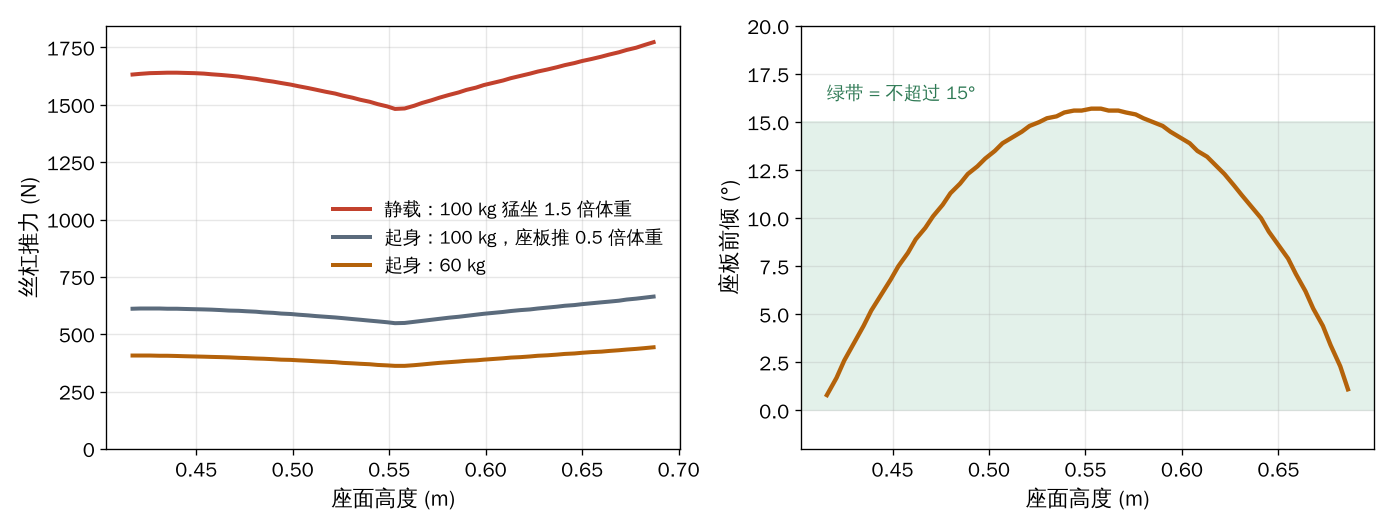
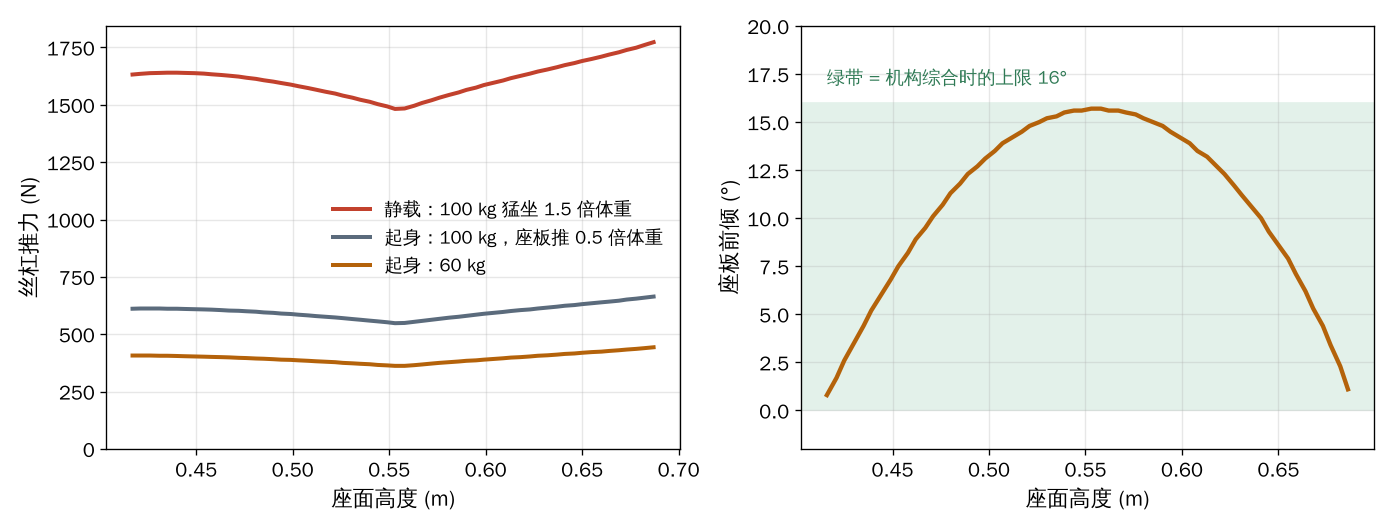
Same-footing bed baseline; deck comparison/verify/conclusion use it; figure state labels
Claude-Session: https://claude.ai/code/session_0189MFebuQQaozftdhaMXEmZ

Changed region(s): [[0.556, 0.1212, 0.9885, 0.2424]]

diff --git a/presentation/slides/whynot.html b/presentation/slides/whynot.html
@@ -1,26 +1,26 @@
-<section id="whynot" data-transition="fade" style="background:#FCFBF8;color:#18202A;font-family:'Noto Sans SC', Arial, sans-serif;padding:128px 128px 160px;display:flex;flex-direction:column;gap:48px">
+<section id="whynot" data-transition="fade" style="background:#FCFBF8;color:#18202A;font-family:'Noto Sans SC', Arial, sans-serif;padding:128px 128px 160px;display:flex;flex-direction:column;gap:40px">
 <div style="display:flex;flex-direction:column;gap:16px">
 <p style="font-size:26px;color:#9A5408;letter-spacing:2px">2 · 方案比较</p>
-<h2 style="font-family:'Noto Serif SC', Georgia, serif;font-size:60px;font-weight:700;line-height:1.2">四种起身方式比较：起身时的座高决定省多少力</h2>
+<h2 style="font-family:'Noto Serif SC', Georgia, serif;font-size:56px;font-weight:700;line-height:1.2">比低床省约 32%；比抬高床只多省 5–10%，好处在别处</h2>
 </div>
-<div style="display:grid;grid-template-columns:1000px 1fr;gap:64px;align-items:center">
-<div style="display:flex;flex-direction:column;gap:22px">
-<p style="font-size:26px;color:#66707C">起身最吃力那一刻的 effort（越低越轻松；手上最多出 25% 体重的假设）</p>
-<div style="display:grid;grid-template-columns:330px 1fr 90px;gap:20px;align-items:center">
-<p style="font-size:28px;color:#3F4A57">低床 0.42 m，撑床垫</p><div style="height:40px;width:520px;background:#C3C9D1;border-radius:6px"></div><p style="font-size:28px;font-weight:700">0.39</p>
-<p style="font-size:28px;color:#3F4A57">动态扶手（组里最初的方案）</p><div style="height:40px;width:520px;background:#C3C9D1;border-radius:6px"></div><p style="font-size:28px;font-weight:700">0.39</p>
-<p style="font-size:28px;color:#3F4A57">抬高床 0.58 m + 扶手</p><div style="height:40px;width:389px;background:#9AA3AD;border-radius:6px"></div><p style="font-size:28px;font-weight:700">0.29</p>
-<p style="font-size:28px;color:#18202A"><b>起身台 0.66 m</b></p><div style="height:40px;width:311px;background:#B4620A;border-radius:6px"></div><p style="font-size:28px;font-weight:700">0.23</p>
-<p style="font-size:28px;color:#3F4A57">起身台，脚下空间按床算</p><div style="height:40px;width:326px;background:#D9A15C;border-radius:6px"></div><p style="font-size:28px;font-weight:700">0.24</p>
+<div style="display:grid;grid-template-columns:1060px 1fr;gap:56px;align-items:start">
+<div style="display:flex;flex-direction:column;gap:18px">
+<p style="font-size:26px;color:#66707C">起身最吃力那一刻的 effort，中位数（越低越轻松；同一模型、同一批 72 位用户）</p>
+<div style="display:grid;grid-template-columns:360px 1fr;gap:18px 20px;align-items:center">
+<p style="font-size:28px;color:#3F4A57">低床 0.42 m + L 扶手</p><div style="display:flex;align-items:center;gap:16px"><div style="height:40px;width:546px;background:#C3C9D1;border-radius:0 6px 6px 0"></div><p style="font-size:28px;font-weight:700">0.41</p><p style="font-size:22px;color:#66707C"></p></div>
+<p style="font-size:28px;color:#3F4A57">抬高床 0.58 m + L 扶手</p><div style="display:flex;align-items:center;gap:16px"><div style="height:40px;width:413px;background:#9AA3AD;border-radius:0 6px 6px 0"></div><p style="font-size:28px;font-weight:700">0.31</p><p style="font-size:22px;color:#66707C"></p></div>
+<p style="font-size:28px;color:#3F4A57">抬高床 0.58 m + 最佳扶手</p><div style="display:flex;align-items:center;gap:16px"><div style="height:40px;width:396px;background:#7D8792;border-radius:0 6px 6px 0"></div><p style="font-size:28px;font-weight:700">0.30</p><p style="font-size:22px;color:#66707C"></p></div>
+<p style="font-size:28px;color:#18202A"><b>起身台：坐板放手那一刻</b></p><div style="display:flex;align-items:center;gap:16px"><div style="height:40px;width:383px;background:#B4620A;border-radius:0 6px 6px 0"></div><p style="font-size:28px;font-weight:700">0.29</p><p style="font-size:22px;color:#66707C"></p></div>
+</div>
+<p style="font-size:24px;line-height:1.5;color:#3F4A57">另有 9 位用户（1.50 m、臀部厚）坐在 0.58 m 的床上脚踩不实，没法比；起身台平时 0.42 m，81 人都踩得实</p>
+</div>
+<div style="display:flex;flex-direction:column;gap:26px">
+<p style="font-size:30px;line-height:1.45"><b>比低床：</b>每个人都省，中位数省 32%</p>
+<p style="font-size:30px;line-height:1.45"><b>比抬高床：</b>只省 5–10%；72 人里 19 人反而略费力</p>
+<p style="font-size:28px;line-height:1.5;color:#3F4A57"><b>原因：</b>多数人在座板前倾最大（约 15°）时就离开坐垫，那时髋只比坐在 0.58 m 床上高约 4 cm；导轨上段没用来托人</p>
+<p style="font-size:28px;line-height:1.5;color:#9A5408"><b>所以它的价值是：</b>平时坐得低、脚踩得实；起身全程有托、不往前滑、坐回接得住（第 8 页）</p>
 </div>
 </div>
-<div style="display:flex;flex-direction:column;gap:28px">
-<p style="font-size:34px;line-height:1.45">坐着要低，脚才踩得实；起身要高，才省力。床只有一个高度，居家建议上限约 0.58 m。</p>
-<p style="font-size:34px;line-height:1.45">起身台把两个高度分开：平时和床齐平，<b>只在起身那一刻</b>升到 0.66 m</p>
-<p style="font-size:34px;line-height:1.45;color:#9A5408"><b>比抬高床再省 13–20%</b><br>比低床省 26–40%</p>
-<p style="font-size:28px;line-height:1.5;color:#3F4A57">只升到 0.60 m 就和抬高床差不多。座板还要跟着大腿走，否则人会往前滑（第 8 页）</p>
-</div>
-</div>
-<p style="position:absolute;left:128px;bottom:64px;width:1664px;font-size:24px;color:#66707C">effort = 最吃力的关节用掉自身最大力量的比例。2D 准静态坐→站模型，四种手臂力量假设下排序一致；范围来自手臂和脚下空间的不同假设</p>
-<aside>接下来比较几种起身方式。我们用一个二维、准静态的起身模型，算离座那一刻最吃力的关节用掉了自己最大力量的几成，叫 effort，越低越轻松。从低床撑着床垫站起来是 0.39，组里最初想的动态扶手也差不多；把床垫高到 0.58 m 再加扶手是 0.29，这是最便宜、效果也最好的现有做法；起身台升到 0.66 m 是 0.23。四种手臂力量假设下排序都一样，比抬高床再省 13 到 20%。可以看出，真正决定省力的是起身那一刻座面有多高。但床只有一个高度：坐着时要低，脚才踩得实，所以居家建议不超过约 0.58 m。起身台的作用就是把这两个高度分开：平时和床齐平，只在起身那一刻升到床达不到的高度。如果只升到 0.60 m，就和抬高床差不多，所以多出来的这段高度正是起身台的价值。</aside>
+<p style="position:absolute;left:128px;bottom:64px;width:1664px;font-size:24px;color:#66707C">effort = 最吃力的关节用掉自身最大力量的比例（2D 准静态模型，手上最多出半个体重）。抬高床按最有利的坐姿（臀部离床沿 0–10 cm）和 35 个扶手位置里最好的算。旧版此页的 13–20% 来自竖直升到 0.66 m 的旧模型，已作废</p>
+<aside>接下来比较几种起身方式。我们用同一个二维、准静态的起身模型、同一副 L 形扶手和同一批用户，算最吃力那一刻最吃力的关节用掉了自身最大力量的几成，叫 effort，越低越轻松。从 0.42 米的低床起身，中位数是 0.41；把床垫高到 0.58 米，降到 0.31，扶手放到最有利的位置是 0.30；起身台在座板放手那一刻是 0.29。所以和低床比，起身台每个人都省，中位数省 32%；但和抬高床比只多省 5% 到 10%，有 19 个人反而略费力。原因是多数人在座板前倾最大、大约 15 度时就离开了坐垫，那时髋部只比坐在 0.58 米的床上高约 4 厘米。我们之前的版本写比抬高床省 13 到 20%，那是竖直升降旧模型的数字，这次按同一口径重算后不成立，我们改掉了。起身台相对抬高床的好处主要在别处：平时和床一样低，脚踩得实，0.58 米的床有 9 位个子矮的用户脚踩不实；起身全程有托，不往前滑，坐回去也接得住。</aside>
 </section>

diff --git a/presentation/slides/concept.html b/presentation/slides/concept.html
@@ -4,11 +4,11 @@
 <h2 style="font-family:'Noto Serif SC', Georgia, serif;font-size:60px;font-weight:700;line-height:1.2">床边起身台：一次完整的使用</h2>
 </div>
 <div style="display:grid;grid-template-columns:1fr 1fr 1fr 1fr 1fr;gap:20px">
-<div style="display:flex;flex-direction:column;gap:16px"><img src="/_blob/d6f8e85453768b055b5749718ff37e1e" alt="坐在床沿，挪上和床齐平的座板" style="width:316px;height:266px;object-fit:contain;background:#FBFAF6;border-radius:20px;border:1px solid #E2DED5"><p style="font-size:28px;line-height:1.45"><b>1</b> 坐在床沿，挪上和床齐平的座板</p></div>
-<div style="display:flex;flex-direction:column;gap:16px"><img src="/_blob/075a16a503d5f0ad6b0c557895de017d" alt="双手握住身前的横杆" style="width:316px;height:266px;object-fit:contain;background:#FBFAF6;border-radius:20px;border:1px solid #E2DED5"><p style="font-size:28px;line-height:1.45"><b>2</b> 双手握住身前横杆，想坐多久都行</p></div>
+<div style="display:flex;flex-direction:column;gap:16px"><img src="/_blob/f04ae053c2630cce3f86a9dde65cf616" alt="坐在床沿，挪上和床齐平的座板" style="width:316px;height:266px;object-fit:contain;background:#FBFAF6;border-radius:20px;border:1px solid #E2DED5"><p style="font-size:28px;line-height:1.45"><b>1</b> 坐在床沿，挪上和床齐平的座板</p></div>
+<div style="display:flex;flex-direction:column;gap:16px"><img src="/_blob/ce4c008948e32731a7d7e0db3db5db3a" alt="双手握住身前的横杆" style="width:316px;height:266px;object-fit:contain;background:#FBFAF6;border-radius:20px;border:1px solid #E2DED5"><p style="font-size:28px;line-height:1.45"><b>2</b> 双手握住身前横杆，想坐多久都行</p></div>
 <div style="display:flex;flex-direction:column;gap:16px"><img src="/_blob/26c9f0689cadff60d7726f9b781f9a7e" alt="握紧开关，座板跟着大腿走" style="width:316px;height:266px;object-fit:contain;background:#FBFAF6;border-radius:20px;border:1px solid #E2DED5"><p style="font-size:28px;line-height:1.45"><b>3</b> 握紧“起”开关：座板跟着大腿前移、上升、前倾</p></div>
 <div style="display:flex;flex-direction:column;gap:16px"><img src="/_blob/b9733f00decff3a5538c2b1895acd4e8" alt="坐垫托住臀部和大腿近端" style="width:316px;height:266px;object-fit:contain;background:#FBFAF6;border-radius:20px;border:1px solid #E2DED5"><p style="font-size:28px;line-height:1.45"><b>4</b> 人自己也发力，坐垫托住臀部和大腿近端</p></div>
-<div style="display:flex;flex-direction:column;gap:16px"><img src="/_blob/0f5dea0a2999377049822a2f3e8b0574" alt="站稳，座板停住" style="width:316px;height:266px;object-fit:contain;background:#FBFAF6;border-radius:20px;border:1px solid #E2DED5"><p style="font-size:28px;line-height:1.45"><b>5</b> 站稳；座板停在放手时的位置，坐回也接得住</p></div>
+<div style="display:flex;flex-direction:column;gap:16px"><img src="/_blob/8e5bc91f20c237c39537fad613267326" alt="站稳，座板停住" style="width:316px;height:266px;object-fit:contain;background:#FBFAF6;border-radius:20px;border:1px solid #E2DED5"><p style="font-size:28px;line-height:1.45"><b>5</b> 站稳；座板停在放手时的位置，坐回也接得住</p></div>
 </div>
 <p style="font-size:30px;line-height:1.5;color:#3F4A57">床不改造。台架靠在床的长边、和床固定；机构全部装在床头一侧的封闭箱里，床尾一侧敞开，回床时腿能转过去。L 形扶手固定在底座上，横杆在人正前方。</p>
 <p style="position:absolute;left:128px;bottom:64px;width:1664px;font-size:24px;color:#66707C">示意图由二维模型画出（1.60 m、60 kg），不是 CAD；红色条是坐垫与身体的接触区</p>

diff --git a/presentation/slides/conclusion.html b/presentation/slides/conclusion.html
@@ -1,12 +1,12 @@
 <section id="conclusion" data-transition="fade" style="background:#18202A;color:#F2EFE8;font-family:'Noto Sans SC', Arial, sans-serif;padding:128px;display:flex;flex-direction:column;gap:48px">
 <div style="display:flex;flex-direction:column;gap:16px">
 <p style="font-size:26px;color:#E3A24A;letter-spacing:2px">5 · 结论</p>
-<h2 style="font-family:'Noto Serif SC', Georgia, serif;font-size:64px;font-weight:700;line-height:1.2;color:#F2EFE8">平时和床一样低，起身时跟着人升得比床高，随时可停</h2>
+<h2 style="font-family:'Noto Serif SC', Georgia, serif;font-size:64px;font-weight:700;line-height:1.2;color:#F2EFE8">平时和床一样低，起身时跟着大腿托一程，随时可停</h2>
 </div>
 <div style="display:grid;grid-template-columns:1fr 1fr 1fr;gap:32px">
-<div style="background:#232E3B;border-radius:20px;padding:40px;display:flex;flex-direction:column;gap:16px"><h3 style="font-size:34px;font-weight:700;color:#E3A24A">省力、不滑</h3><p style="font-size:30px;line-height:1.5;color:#E4E0D6">升到床达不到的高度，比抬高床再省 13–20%；座板跟着大腿走，81 人都不往前滑、坐回接得住</p></div>
+<div style="background:#232E3B;border-radius:20px;padding:40px;display:flex;flex-direction:column;gap:16px"><h3 style="font-size:34px;font-weight:700;color:#E3A24A">省力、不滑</h3><p style="font-size:30px;line-height:1.5;color:#E4E0D6">比低床省约 32%；比抬高床只多省 5–10%，但平时坐得低、脚踩得实；81 人都不往前滑、坐回接得住</p></div>
 <div style="background:#232E3B;border-radius:20px;padding:40px;display:flex;flex-direction:column;gap:16px"><h3 style="font-size:34px;font-weight:700;color:#E3A24A">做得出来</h3><p style="font-size:30px;line-height:1.5;color:#E4E0D6">一个电机：斜导轨 + 倾角连杆；机构封闭在床头一侧，床尾敞开；台架和床固定</p></div>
 <div style="background:#232E3B;border-radius:20px;padding:40px;display:flex;flex-direction:column;gap:16px"><h3 style="font-size:34px;font-weight:700;color:#E3A24A">安全</h3><p style="font-size:30px;line-height:1.5;color:#E4E0D6">松手即停、有人坐着才降、速度跟着人走；断电时制动抱住，拉拨杆可慢慢降</p></div>
 </div>
-<aside>总结一下。起身台平时和床一样低，起身时把座面升到床达不到的高度，比抬高床再省 13 到 20%；而且座板跟着大腿走，我们模拟的 81 位用户都不会往前滑，坐回去也接得住。机构上，一个电机带动斜导轨和倾角连杆，整套机构封闭在床头一侧，床尾一侧敞开，台架和床固定。控制上，松手即停、有人坐着才降、速度跟着人走；断电时制动器抱住，拉一下拨杆就能慢慢降下来。</aside>
+<aside>总结一下。起身台平时和床一样低，起身时座板跟着大腿托一程。按同一个模型，它比从低床起身省约 32%；和把床垫高到 0.58 米相比只多省 5% 到 10%，好处主要是平时坐得低、脚踩得实，而且座板跟着大腿走，我们模拟的 81 位用户都不会往前滑，坐回去也接得住。机构上，一个电机带动斜导轨和倾角连杆，整套机构封闭在床头一侧，床尾一侧敞开，台架和床固定。控制上，松手即停、有人坐着才降、速度跟着人走；断电时制动器抱住，拉一下拨杆就能慢慢降下来。</aside>
 </section>

diff --git a/presentation/slides/sizing.html b/presentation/slides/sizing.html
@@ -4,7 +4,7 @@
 <h2 style="font-family:'Noto Serif SC', Georgia, serif;font-size:60px;font-weight:700;line-height:1.2">滚珠丝杠 + 失电制动；双导轨扛住单侧悬臂</h2>
 </div>
 <div style="display:grid;grid-template-columns:1080px 1fr;gap:48px;align-items:center">
-<img src="/_blob/2acf28fc6bf454f21ab132e98d785db5" alt="左：丝杠推力随座面高度；右：座板前倾随座面高度，不超过 15 度" style="width:1080px;height:410px;object-fit:contain;background:#FFFFFF;border-radius:20px;border:1px solid #E2DED5">
+<img src="/_blob/82ba7f1d5f0a1856e5f34169e4961b8d" alt="左：丝杠推力随座面高度；右：座板前倾随座面高度，不超过 16 度" style="width:1080px;height:410px;object-fit:contain;background:#FFFFFF;border-radius:20px;border:1px solid #E2DED5">
 <div style="display:flex;flex-direction:column;gap:22px">
 <p style="font-size:28px;line-height:1.5;color:#3F4A57"><b>丝杠：</b>起身时 ≤ 664 N（100 kg），猛坐静载 ≤ 1773 N；行程 331 mm</p>
 <p style="font-size:28px;line-height:1.5;color:#3F4A57"><b>双导轨、每轨两个滑块：</b>偏载悬臂 659 N·m，每个滑块约 3.1 kN</p>
@@ -13,5 +13,5 @@
 </div>
 <div style="border:2px dashed #C98A3E;border-radius:16px;padding:20px 28px;background:#FBF3E8"><p style="font-size:26px;line-height:1.5;color:#3F4A57"><b style="color:#9A5408">待补：</b>按厂家样本选定滚珠丝杠、直线导轨和制动器型号；核对 3 cm/s 时的电机转速和扭矩</p></div>
 <p style="position:absolute;left:128px;bottom:64px;width:1664px;font-size:24px;color:#66707C">载荷：起身按座板推 0.5 倍体重 + 座板 10 kg；静载按 100 kg × 1.5 倍体重，载荷可在座面任意位置（虚功法）</p>
-<aside>这是驱动的第一版选型。座板由一根滚珠丝杠推着滑块走。左图是丝杠推力：起身时最多约 664 牛，100 公斤的人猛坐下来时约 1773 牛。右图是座板前倾，全程不超过 15 度。滚珠丝杠效率高，但不能自锁，所以加一个失电常闭制动器：平时和断电时都抱住。应急时拉握把旁边的拨杆，制动器松开，人的重量把座板慢慢压下去，离心限速器把速度限在每秒 10 厘米左右，一松手就停。机构在床头一侧，座板是悬臂，偏载时导轨要扛 659 牛米的力矩，所以用两根导轨、每根两个滑块。</aside>
+<aside>这是驱动的第一版选型。座板由一根滚珠丝杠推着滑块走。左图是丝杠推力：起身时最多约 664 牛，100 公斤的人猛坐下来时约 1773 牛。右图是座板前倾，全程不超过 16 度。滚珠丝杠效率高，但不能自锁，所以加一个失电常闭制动器：平时和断电时都抱住。应急时拉握把旁边的拨杆，制动器松开，人的重量把座板慢慢压下去，离心限速器把速度限在每秒 10 厘米左右，一松手就停。机构在床头一侧，座板是悬臂，偏载时导轨要扛 659 牛米的力矩，所以用两根导轨、每根两个滑块。</aside>
 </section>

diff --git a/presentation/slides/statemachine.html b/presentation/slides/statemachine.html
@@ -6,8 +6,8 @@
 <img src="/_blob/b4e55b4f2dcef340f2ccf9dccdc48401" alt="状态机：待机、已坐上、抬升、停住、站立保持、下降、空载复位、锁定，以及它们之间的切换条件" style="width:1664px;height:300px;object-fit:contain;background:#FFFFFF;border-radius:16px;border:1px solid #E2DED5">
 <div style="display:grid;grid-template-columns:1fr 1fr 1fr;gap:32px">
 <div style="background:#F7F5F0;border-radius:20px;padding:36px;display:flex;flex-direction:column;gap:14px"><h3 style="font-size:34px;font-weight:700;color:#9A5408">松手即停</h3><p style="font-size:28px;line-height:1.5;color:#3F4A57">松手或任何故障，立即停住并制动，座板停在当前高度</p></div>
-<div style="background:#F7F5F0;border-radius:20px;padding:36px;display:flex;flex-direction:column;gap:14px"><h3 style="font-size:34px;font-weight:700;color:#9A5408">有人坐着才降</h3><p style="font-size:28px;line-height:1.5;color:#3F4A57">按住“降”，或坐着一段时间没有操作，才带人慢慢降；座板上没人时不动</p></div>
+<div style="background:#F7F5F0;border-radius:20px;padding:36px;display:flex;flex-direction:column;gap:14px"><h3 style="font-size:34px;font-weight:700;color:#9A5408">有人坐着才降</h3><p style="font-size:28px;line-height:1.5;color:#3F4A57">按住“降”，或坐着一段时间没有操作，才带人慢慢降；空座板只在“空载复位”时自己降回齐平</p></div>
 <div style="background:#F7F5F0;border-radius:20px;padding:36px;display:flex;flex-direction:column;gap:14px"><h3 style="font-size:34px;font-weight:700;color:#9A5408">离座后停住</h3><p style="font-size:28px;line-height:1.5;color:#3F4A57">座板停在放手时的位置接人；人走开、踏板空了几秒后才降回齐平</p></div>
 </div>
-<aside>控制部分我们用一个状态机。这张图是从仿真代码直接生成的。整个控制的核心是三条规则：第一，松手或者出任何故障，立即停住并制动；第二，只有确认有人坐着才下降，座板上没人时不动；第三，人站起来以后，座板停在放手时的位置，万一坐回去也接得住；等人走开、踏板也空了几秒，座板才降回和床齐平，这样人回来时像坐普通椅子一样坐上去。传感器自检不通过时进入锁定，只允许慢速下降。</aside>
+<aside>控制部分我们用一个状态机。这张图是从仿真代码直接生成的。整个控制的核心是三条规则：第一，松手或者出任何故障，立即停住并制动；第二，带人下降必须确认有人坐着，并且按住“降”或坐着很久没有操作；空座板只在人走开以后自己降回齐平；第三，人站起来以后，座板停在放手时的位置，万一坐回去也接得住；等人走开、踏板也空了几秒，座板才降回和床齐平，这样人回来时像坐普通椅子一样坐上去。传感器自检不通过时进入锁定，只允许慢速下降。</aside>
 </section>

diff --git a/presentation/slides/verify.html b/presentation/slides/verify.html
@@ -5,7 +5,7 @@
 </div>
 <table style="font-size:24px;color:#3F4A57">
 <tr><th style="width:30%">设计要求</th><th style="width:24%">怎么验证</th><th style="width:32%">目前结果</th><th style="width:14%">状态</th></tr>
-<tr><td>1 只在起身时升高，比现有办法省力</td><td>2D 起身模型</td><td>升到 0.66 m 比抬高床省 13–20%</td><td><b style="color:#2F7A55">初步完成</b></td></tr>
+<tr><td>1 只在起身时升高，比现有办法省力</td><td>2D 起身模型，同一扶手、同一批用户</td><td>比低床省 32%；比抬高床 0.58 m 只省 5–10%，19/72 人略费力</td><td><b style="color:#9A5408">部分达成</b></td></tr>
 <tr><td>1′ 座板跟着人走：不往前滑、坐回接得住</td><td>81 人 × 机构实际轨迹</td><td>81/81 合格（竖直升降 19/81）；按坐垫压下后的位置 81/81</td><td><b style="color:#2F7A55">初步完成</b></td></tr>
 <tr><td>2 推力不超过约半个体重</td><td>速度规则 + 场景仿真</td><td>8 个场景都没有超过上限</td><td><b style="color:#2F7A55">初步完成</b></td></tr>
 <tr><td>3 手握 + 力分布确认后才抬；松手即停</td><td>状态机仿真</td><td>松手后立即停住</td><td><b style="color:#2F7A55">初步完成</b></td></tr>
@@ -14,5 +14,5 @@
 <tr><td>6 有人坐着才降；离座后停住接人</td><td>状态机仿真</td><td>坐回、断电场景都落到安全状态</td><td><b style="color:#2F7A55">初步完成</b></td></tr>
 </table>
 <p style="position:absolute;left:128px;bottom:64px;width:1664px;font-size:24px;color:#66707C">本项目只做概念、设计和仿真，不做实物和人体实验；“初步完成”指已有第一版计算或仿真结果</p>
-<aside>这张表把设计要求和验证方法一一对上。新增的一行是座板要跟着人走：我们用机构实际走出的轨迹重跑了 81 位用户，81 人都不往前滑、坐回接得住，竖直升降只有 19 人；把坐垫压下去以后的座板位置也算了一遍，81 人合格。推力上限、松手即停和有人坐着才降，用状态机的场景仿真验证；机构的强度和台架稳定性的真实质量复核还在进行中。</aside>
+<aside>这张表把设计要求和验证方法一一对上。第一行要说清楚：按新的同一口径，起身台比低床省约 32%，但比抬高床只省 5% 到 10%，所以我们标成部分达成。新增的一行是座板要跟着人走：我们用机构实际走出的轨迹重跑了 81 位用户，81 人都不往前滑、坐回接得住，竖直升降只有 19 人；把坐垫压下去以后的座板位置也算了一遍，81 人合格。推力上限、松手即停和有人坐着才降，用状态机的场景仿真验证；机构的强度和台架稳定性的真实质量复核还在进行中。</aside>
 </section>

diff --git a/presentation/slides/risk.html b/presentation/slides/risk.html
@@ -13,7 +13,7 @@
 <tr><td><b>断电、卡住</b></td><td>失电制动抱住；拉握把旁的拨杆，离心限速慢慢降，松手即停；电池降</td></tr>
 <tr><td><b>扶一下就把台架拉翻</b></td><td>台架和床固定（人不在台上时 107 N 就会翻）</td></tr>
 </table>
-<div style="display:flex;flex-direction:column;gap:14px"><img src="/_blob/0f5dea0a2999377049822a2f3e8b0574" alt="示意：站稳后座板停在放手时的位置，坐回也接得住" style="width:600px;height:500px;object-fit:contain;background:#FBFAF6;border-radius:20px;border:1px solid #E2DED5"><p style="font-size:24px;line-height:1.5;color:#66707C">放手后座板停在原处：头晕坐回时接得住</p></div>
+<div style="display:flex;flex-direction:column;gap:14px"><img src="/_blob/8e5bc91f20c237c39537fad613267326" alt="示意：站稳后座板停在放手时的位置，坐回也接得住" style="width:600px;height:500px;object-fit:contain;background:#FBFAF6;border-radius:20px;border:1px solid #E2DED5"><p style="font-size:24px;line-height:1.5;color:#66707C">放手后座板停在原处：头晕坐回时接得住</p></div>
 </div>
 <p style="position:absolute;left:128px;bottom:64px;width:1664px;font-size:24px;color:#66707C">[待补] 完整风险表（严重度、发生可能性、检测方式）放附录；适用标准：IEC 60601-1-11、ISO 13482、EN 12182</p>
 <aside>这一页是我们认为最重要的六个风险。夹手夹腿：机构全部封闭在床头一侧的箱子里，只留一条带毛刷的竖槽让座板支架伸出来，座板侧边到箱壁有 3 厘米，手指夹不住。从座板上滑下来：放手时座板前倾不超过 16 度，面料用高摩擦的，压力中心偏出安全区就不抬。抬升中头晕往回坐：速度自然降到零，座板停在原处接住人。传感器失效：底座四个角测总重量，和体重对不上就锁住。断电或卡住：制动器抱住，拉握把旁边的拨杆就能慢慢降下来。最后，人不在台上时扶一下横杆就可能把台架拉翻，所以台架和床固定。</aside>

diff --git a/presentation/slides/cover.html b/presentation/slides/cover.html
@@ -2,9 +2,9 @@
 <div style="display:flex;flex-direction:column;gap:40px">
 <p style="font-size:28px;color:#E3A24A;letter-spacing:2px">ME5412 Robotics for Healthcare · Group 16</p>
 <h1 style="font-family:'Noto Serif SC', Georgia, serif;font-size:120px;font-weight:700;line-height:1.1;color:#F2EFE8">床边起身台</h1>
-<p style="font-size:40px;line-height:1.45;color:#D6D2C8">帮老人夜里从床沿站起来：平时和床一样低；起身时座板跟着大腿前移、上升、前倾，把人托到床达不到的高度；速度跟着人，松手就停</p>
+<p style="font-size:40px;line-height:1.45;color:#D6D2C8">帮老人夜里从床沿站起来：平时和床一样低；起身时座板跟着大腿前移、上升、前倾，一路托着人；速度跟着人，松手就停</p>
 <p style="font-size:28px;line-height:1.5;color:#AEB6C0">[组员姓名] · 汇报结构草稿 · 标“待补”的部分还在做</p>
 </div>
 <img src="/_blob/26c9f0689cadff60d7726f9b781f9a7e" alt="示意图：老人双手握住身前横杆，座板跟着大腿前移、上升、前倾" style="width:640px;height:540px;object-fit:contain;background:#FBFAF6;border-radius:20px;border:1px solid #E2DED5;border:none">
-<aside>大家好，我们是第 16 组。我们的题目是“床边起身台”：帮腿力下降的老人夜里从床沿站起来。一句话概括我们的思路：平时它和床一样低；起身时座板跟着人的大腿往前、往上走并稍微前倾，把人托到床达不到的高度；速度跟着人走，松手就停。</aside>
+<aside>大家好，我们是第 16 组。我们的题目是“床边起身台”：帮腿力下降的老人夜里从床沿站起来。一句话概括我们的思路：平时它和床一样低；起身时座板跟着人的大腿往前、往上走并稍微前倾，一路托着人；速度跟着人走，松手就停。</aside>
 </section>

diff --git a/presentation/slides/motion.html b/presentation/slides/motion.html
@@ -1,5 +1,5 @@
 <section id="motion" data-transition="fade" style="background:#F7F5F0;color:#18202A;font-family:'Noto Sans SC', Arial, sans-serif;padding:128px;display:grid;grid-template-columns:1120px 1fr;gap:56px;align-items:center">
-<img src="/_blob/83cfc48ba82a591524c30e13bbc1cc71" alt="示意动画：一位 1.60 m 的用户握住横杆起身，座板沿曲线跟着大腿走，坐垫接触区随之变化，放手后座板停住" style="width:1120px;height:630px;object-fit:contain;background:#FBFAF6;border-radius:20px;border:1px solid #E2DED5">
+<img src="/_blob/4e3530ed05842cc37e0e6ea1d8c301f6" alt="示意动画：一位 1.60 m 的用户握住横杆起身，座板沿曲线跟着大腿走，坐垫接触区随之变化，放手后座板停住" style="width:1120px;height:630px;object-fit:contain;background:#FBFAF6;border-radius:20px;border:1px solid #E2DED5">
 <div style="display:flex;flex-direction:column;gap:28px">
 <p style="font-size:26px;color:#9A5408;letter-spacing:2px">3 · 运动演示</p>
 <h2 style="font-family:'Noto Serif SC', Georgia, serif;font-size:52px;font-weight:700;line-height:1.25">关键动作和状态</h2>

diff --git a/presentation/slides/appendix.html b/presentation/slides/appendix.html
@@ -13,6 +13,8 @@
 <tr><td>8 个仿真场景的逐个说明</td><td>角色 5</td><td><b style="color:#2F7A55">有材料</b></td></tr>
 <tr><td>现有技术和专利表</td><td>角色 1</td><td><b style="color:#2F7A55">有材料</b></td></tr>
 <tr><td>单自由度坐板设计（81 人、机构、坐垫、干涉、两轮审计）</td><td>角色 2、3</td><td><b style="color:#2F7A55">有材料</b></td></tr>
+<tr><td>单自由度坐板设计（81 人、机构、坐垫、干涉、两轮审计）</td><td>角色 2、3</td><td><b style="color:#2F7A55">有材料</b></td></tr>
+<tr><td>单自由度坐板设计（81 人、机构、坐垫、干涉、两轮审计）</td><td>角色 2、3</td><td><b style="color:#2F7A55">有材料</b></td></tr>
 </table>
 <aside>附录不在汇报中讲，被问到时翻出来。这一页列出我们计划放进附录的内容，以及每一项目前有没有材料。</aside>
 </section>

diff --git a/presentation/update_slides_v52.py b/presentation/update_slides_v52.py
@@ -15,6 +15,17 @@ Erel = st.median([v["E0_release"] for v in F.values() if v.get("E0_release") is 
 anchor = T["固定件拉力（ADA 609 扶手设计载荷 1112 N，安全系数 1.5）"]["anchor_N"]; tipmin = T["结论"]["min_tip_force_N"]
 fl = T["人站在地上推拉横杆（只有台架自重）"]
 cm = lambda v: f"{100 * v:.0f}"
+BB = json.load(open(os.path.join(ROOT, "model/calc_v13/seat_1dof/bed_baseline.json"))); SLU = json.load(open(os.path.join(ROOT, "model/calc_v13/seat_1dof/slider.json")))["users"]
+K72 = [k for k, v in BB["users"].items() if v["0.58"]["handle"] is not None and SLU[k].get("E_release")]
+med = lambda xs: st.median(xs)
+CMP = dict(low=med([BB["users"][k]["0.42"]["L_bar"] for k in K72]), high_L=med([BB["users"][k]["0.58"]["L_bar"] for k in K72]),
+           high_best=med([BB["users"][k]["0.58"]["handle"] for k in K72]), seat=med([SLU[k]["E_release"] for k in K72]))
+BS = BB["summary"]; N72 = len(K72); NOFF = 81 - N72
+_sv = lambda bed, k: med([1 - SLU[u]["E_release"] / BB["users"][u][bed][k] for u in K72])   # per-user saving, same 72 users
+SAVE_LOW = _sv("0.42", "L_bar"); SAVE_HL = _sv("0.58", "L_bar"); SAVE_HB = _sv("0.58", "handle"); NWORSE = BS["bed0.58_handle"]["n_worse"]
+PHIREL = st.median([v["phi_release"] for v in SLU.values()])
+pct = lambda v: f"{100 * v:.0f}%"
+pc = lambda v: f"{100 * v:.0f}"
 INK, BODY, ACC, LIGHT, PAPER, LINE = "#18202A", "#3F4A57", "#9A5408", "#F7F5F0", "#FCFBF8", "#E2DED5"
 SANS = "font-family:'Noto Sans SC', Arial, sans-serif"; SERIF = "font-family:'Noto Serif SC', Georgia, serif"
 
@@ -39,10 +50,10 @@ S = {}
 S["cover"] = (f'<section id="cover" data-transition="fade" style="background:#18202A;color:#F2EFE8;{SANS};padding:128px;display:grid;grid-template-columns:1fr 640px;gap:64px;align-items:center">\n'
   f'<div style="display:flex;flex-direction:column;gap:40px">\n<p style="font-size:28px;color:#E3A24A;letter-spacing:2px">ME5412 Robotics for Healthcare · Group 16</p>\n'
   f'<h1 style="{SERIF};font-size:120px;font-weight:700;line-height:1.1;color:#F2EFE8">床边起身台</h1>\n'
-  f'<p style="font-size:40px;line-height:1.45;color:#D6D2C8">帮老人夜里从床沿站起来：平时和床一样低；起身时座板跟着大腿前移、上升、前倾，把人托到床达不到的高度；速度跟着人，松手就停</p>\n'
+  f'<p style="font-size:40px;line-height:1.45;color:#D6D2C8">帮老人夜里从床沿站起来：平时和床一样低；起身时座板跟着大腿前移、上升、前倾，一路托着人；速度跟着人，松手就停</p>\n'
   f'<p style="font-size:28px;line-height:1.5;color:#AEB6C0">[组员姓名] · 汇报结构草稿 · 标“待补”的部分还在做</p>\n</div>\n'
   + img("seat_step3", "示意图：老人双手握住身前横杆，座板跟着大腿前移、上升、前倾", 640, 540, extra=";border:none") +
-  '\n<aside>大家好，我们是第 16 组。我们的题目是“床边起身台”：帮腿力下降的老人夜里从床沿站起来。一句话概括我们的思路：平时它和床一样低；起身时座板跟着人的大腿往前、往上走并稍微前倾，把人托到床达不到的高度；速度跟着人走，松手就停。</aside>\n</section>\n')
+  '\n<aside>大家好，我们是第 16 组。我们的题目是“床边起身台”：帮腿力下降的老人夜里从床沿站起来。一句话概括我们的思路：平时它和床一样低；起身时座板跟着人的大腿往前、往上走并稍微前倾，一路托着人；速度跟着人走，松手就停。</aside>\n</section>\n')
 
 S["users"] = None  # small text edit, done by replace below
 S["concept"] = sec("concept", LIGHT,
@@ -77,14 +88,14 @@ S["motion"] = (f'<section id="motion" data-transition="fade" style="background:{
 
 S["sizing"] = sec("sizing", LIGHT,
   head("3 · 驱动选型", "滚珠丝杠 + 失电制动；双导轨扛住单侧悬臂") +
-  f'\n<div style="display:grid;grid-template-columns:1080px 1fr;gap:48px;align-items:center">\n' + img("seat_force", "左：丝杠推力随座面高度；右：座板前倾随座面高度，不超过 15 度", 1080, 410, bg="#FFFFFF") +
+  f'\n<div style="display:grid;grid-template-columns:1080px 1fr;gap:48px;align-items:center">\n' + img("seat_force", "左：丝杠推力随座面高度；右：座板前倾随座面高度，不超过 16 度", 1080, 410, bg="#FFFFFF") +
   f'\n<div style="display:flex;flex-direction:column;gap:22px">\n'
   f'<p style="font-size:28px;line-height:1.5;color:{BODY}"><b>丝杠：</b>起身时 ≤ {M["F_lift100_N"]} N（100 kg），猛坐静载 ≤ {M["F_hold100_N"]} N；行程 {M["stroke"] * 1000:.0f} mm</p>\n'
   f'<p style="font-size:28px;line-height:1.5;color:{BODY}"><b>双导轨、每轨两个滑块：</b>偏载悬臂 {FO["moment_Nm"]} N·m，每个滑块约 {FO["per_carriage_lateral_N"] / 1000:.1f} kN</p>\n'
   f'<p style="font-size:28px;line-height:1.5;color:{BODY}"><b>应急下降：</b>拉握把旁的拨杆，制动松开，离心限速约 {E["limiter_speed_mps"] * 100:.0f} cm/s，松手即停</p>\n</div>\n</div>\n'
   + todo("按厂家样本选定滚珠丝杠、直线导轨和制动器型号；核对 3 cm/s 时的电机转速和扭矩") + "\n"
   + foot("载荷：起身按座板推 0.5 倍体重 + 座板 10 kg；静载按 100 kg × 1.5 倍体重，载荷可在座面任意位置（虚功法）"),
-  f"这是驱动的第一版选型。座板由一根滚珠丝杠推着滑块走。左图是丝杠推力：起身时最多约 {M['F_lift100_N']} 牛，100 公斤的人猛坐下来时约 {M['F_hold100_N']} 牛。右图是座板前倾，全程不超过 15 度。滚珠丝杠效率高，但不能自锁，所以加一个失电常闭制动器：平时和断电时都抱住。应急时拉握把旁边的拨杆，制动器松开，人的重量把座板慢慢压下去，离心限速器把速度限在每秒 10 厘米左右，一松手就停。机构在床头一侧，座板是悬臂，偏载时导轨要扛 {FO['moment_Nm']} 牛米的力矩，所以用两根导轨、每根两个滑块。",
+  f"这是驱动的第一版选型。座板由一根滚珠丝杠推着滑块走。左图是丝杠推力：起身时最多约 {M['F_lift100_N']} 牛，100 公斤的人猛坐下来时约 {M['F_hold100_N']} 牛。右图是座板前倾，全程不超过 16 度。滚珠丝杠效率高，但不能自锁，所以加一个失电常闭制动器：平时和断电时都抱住。应急时拉握把旁边的拨杆，制动器松开，人的重量把座板慢慢压下去，离心限速器把速度限在每秒 10 厘米左右，一松手就停。机构在床头一侧，座板是悬臂，偏载时导轨要扛 {FO['moment_Nm']} 牛米的力矩，所以用两根导轨、每根两个滑块。",
   pad="128px 128px 160px", layout="display:flex;flex-direction:column;gap:36px")
 
 tip_rows = [(k, v) for k, v in T.items() if isinstance(v, dict) and v.get("margin_rear_cm") is not None]
@@ -116,7 +127,7 @@ S["risk"] = sec("risk", PAPER,
 S["verify"] = sec("verify", LIGHT,
   head("5 · 验证", "设计要求 → 怎么验证 → 结果") +
   f'\n<table style="font-size:24px;color:{BODY}">\n<tr><th style="width:30%">设计要求</th><th style="width:24%">怎么验证</th><th style="width:32%">目前结果</th><th style="width:14%">状态</th></tr>\n'
-  f'<tr><td>1 只在起身时升高，比现有办法省力</td><td>2D 起身模型</td><td>升到 0.66 m 比抬高床省 13–20%</td><td><b style="color:#2F7A55">初步完成</b></td></tr>\n'
+  f'<tr><td>1 只在起身时升高，比现有办法省力</td><td>2D 起身模型，同一扶手、同一批用户</td><td>比低床省 {pct(SAVE_LOW)}；比抬高床 0.58 m 只省 {pc(SAVE_HB)}–{pct(SAVE_HL)}，{NWORSE}/{N72} 人略费力</td><td><b style="color:{ACC}">部分达成</b></td></tr>\n'
   f'<tr><td>1′ 座板跟着人走：不往前滑、坐回接得住</td><td>81 人 × 机构实际轨迹</td><td>{nok}/81 合格（竖直升降 {VS["n_ok"]}/81）；按坐垫压下后的位置 {CT.get("n_ok", "—")}/81</td><td><b style="color:#2F7A55">初步完成</b></td></tr>\n'
   f'<tr><td>2 推力不超过约半个体重</td><td>速度规则 + 场景仿真</td><td>8 个场景都没有超过上限</td><td><b style="color:#2F7A55">初步完成</b></td></tr>\n'
   f'<tr><td>3 手握 + 力分布确认后才抬；松手即停</td><td>状态机仿真</td><td>松手后立即停住</td><td><b style="color:#2F7A55">初步完成</b></td></tr>\n'
@@ -124,17 +135,41 @@ S["verify"] = sec("verify", LIGHT,
   f'<tr><td>5 人坐上、挪动、坐回时不翻</td><td>合重心和倾翻计算</td><td>人在台上余量足；人在地上要和床固定；[待补] 真实质量复核</td><td><b style="color:{ACC}">进行中</b></td></tr>\n'
   f'<tr><td>6 有人坐着才降；离座后停住接人</td><td>状态机仿真</td><td>坐回、断电场景都落到安全状态</td><td><b style="color:#2F7A55">初步完成</b></td></tr>\n</table>\n'
   + foot("本项目只做概念、设计和仿真，不做实物和人体实验；“初步完成”指已有第一版计算或仿真结果"),
-  f"这张表把设计要求和验证方法一一对上。新增的一行是座板要跟着人走：我们用机构实际走出的轨迹重跑了 81 位用户，{nok} 人都不往前滑、坐回接得住，竖直升降只有 {VS['n_ok']} 人；把坐垫压下去以后的座板位置也算了一遍，{CT.get('n_ok', '—')} 人合格。推力上限、松手即停和有人坐着才降，用状态机的场景仿真验证；机构的强度和台架稳定性的真实质量复核还在进行中。",
+  f"这张表把设计要求和验证方法一一对上。第一行要说清楚：按新的同一口径，起身台比低床省约 {pct(SAVE_LOW)}，但比抬高床只省 {pct(SAVE_HB)} 到 {pct(SAVE_HL)}，所以我们标成部分达成。新增的一行是座板要跟着人走：我们用机构实际走出的轨迹重跑了 81 位用户，{nok} 人都不往前滑、坐回接得住，竖直升降只有 {VS['n_ok']} 人；把坐垫压下去以后的座板位置也算了一遍，{CT.get('n_ok', '—')} 人合格。推力上限、松手即停和有人坐着才降，用状态机的场景仿真验证；机构的强度和台架稳定性的真实质量复核还在进行中。",
   pad="128px 128px 160px", layout="display:flex;flex-direction:column;gap:36px")
 
 S["conclusion"] = (f'<section id="conclusion" data-transition="fade" style="background:#18202A;color:#F2EFE8;{SANS};padding:128px;display:flex;flex-direction:column;gap:48px">\n'
   f'<div style="display:flex;flex-direction:column;gap:16px">\n<p style="font-size:26px;color:#E3A24A;letter-spacing:2px">5 · 结论</p>\n'
-  f'<h2 style="{SERIF};font-size:64px;font-weight:700;line-height:1.2;color:#F2EFE8">平时和床一样低，起身时跟着人升得比床高，随时可停</h2>\n</div>\n'
+  f'<h2 style="{SERIF};font-size:64px;font-weight:700;line-height:1.2;color:#F2EFE8">平时和床一样低，起身时跟着大腿托一程，随时可停</h2>\n</div>\n'
   f'<div style="display:grid;grid-template-columns:1fr 1fr 1fr;gap:32px">\n'
-  f'<div style="background:#232E3B;border-radius:20px;padding:40px;display:flex;flex-direction:column;gap:16px"><h3 style="font-size:34px;font-weight:700;color:#E3A24A">省力、不滑</h3><p style="font-size:30px;line-height:1.5;color:#E4E0D6">升到床达不到的高度，比抬高床再省 13–20%；座板跟着大腿走，81 人都不往前滑、坐回接得住</p></div>\n'
+  f'<div style="background:#232E3B;border-radius:20px;padding:40px;display:flex;flex-direction:column;gap:16px"><h3 style="font-size:34px;font-weight:700;color:#E3A24A">省力、不滑</h3><p style="font-size:30px;line-height:1.5;color:#E4E0D6">比低床省约 {pct(SAVE_LOW)}；比抬高床只多省 {pc(SAVE_HB)}–{pct(SAVE_HL)}，但平时坐得低、脚踩得实；81 人都不往前滑、坐回接得住</p></div>\n'
   f'<div style="background:#232E3B;border-radius:20px;padding:40px;display:flex;flex-direction:column;gap:16px"><h3 style="font-size:34px;font-weight:700;color:#E3A24A">做得出来</h3><p style="font-size:30px;line-height:1.5;color:#E4E0D6">一个电机：斜导轨 + 倾角连杆；机构封闭在床头一侧，床尾敞开；台架和床固定</p></div>\n'
   f'<div style="background:#232E3B;border-radius:20px;padding:40px;display:flex;flex-direction:column;gap:16px"><h3 style="font-size:34px;font-weight:700;color:#E3A24A">安全</h3><p style="font-size:30px;line-height:1.5;color:#E4E0D6">松手即停、有人坐着才降、速度跟着人走；断电时制动抱住，拉拨杆可慢慢降</p></div>\n</div>\n'
-  f'<aside>总结一下。起身台平时和床一样低，起身时把座面升到床达不到的高度，比抬高床再省 13 到 20%；而且座板跟着大腿走，我们模拟的 81 位用户都不会往前滑，坐回去也接得住。机构上，一个电机带动斜导轨和倾角连杆，整套机构封闭在床头一侧，床尾一侧敞开，台架和床固定。控制上，松手即停、有人坐着才降、速度跟着人走；断电时制动器抱住，拉一下拨杆就能慢慢降下来。</aside>\n</section>\n')
+  f'<aside>总结一下。起身台平时和床一样低，起身时座板跟着大腿托一程。按同一个模型，它比从低床起身省约 {pct(SAVE_LOW)}；和把床垫高到 0.58 米相比只多省 {pct(SAVE_HB)} 到 {pct(SAVE_HL)}，好处主要是平时坐得低、脚踩得实，而且座板跟着大腿走，我们模拟的 81 位用户都不会往前滑，坐回去也接得住。机构上，一个电机带动斜导轨和倾角连杆，整套机构封闭在床头一侧，床尾一侧敞开，台架和床固定。控制上，松手即停、有人坐着才降、速度跟着人走；断电时制动器抱住，拉一下拨杆就能慢慢降下来。</aside>\n</section>\n')
+
+def _bar(label, v, col, bold=False, note=""):
+    w = round(600 * v / 0.45)
+    return (f'<p style="font-size:28px;color:{INK if bold else BODY}">{"<b>" + label + "</b>" if bold else label}</p>'
+            f'<div style="display:flex;align-items:center;gap:16px"><div style="height:40px;width:{w}px;background:{col};border-radius:0 6px 6px 0"></div>'
+            f'<p style="font-size:28px;font-weight:700">{v:.2f}</p><p style="font-size:22px;color:#66707C">{note}</p></div>')
+S["whynot"] = sec("whynot", PAPER,
+  head("2 · 方案比较", f"比低床省约 {pct(SAVE_LOW)}；比抬高床只多省 {pc(SAVE_HB)}–{pct(SAVE_HL)}，好处在别处", 56) +
+  f'\n<div style="display:grid;grid-template-columns:1060px 1fr;gap:56px;align-items:start">\n<div style="display:flex;flex-direction:column;gap:18px">\n'
+  f'<p style="font-size:26px;color:#66707C">起身最吃力那一刻的 effort，中位数（越低越轻松；同一模型、同一批 {N72} 位用户）</p>\n'
+  f'<div style="display:grid;grid-template-columns:360px 1fr;gap:18px 20px;align-items:center">\n'
+  + _bar("低床 0.42 m + L 扶手", CMP["low"], "#C3C9D1") + "\n"
+  + _bar("抬高床 0.58 m + L 扶手", CMP["high_L"], "#9AA3AD") + "\n"
+  + _bar("抬高床 0.58 m + 最佳扶手", CMP["high_best"], "#7D8792") + "\n"
+  + _bar("起身台：坐板放手那一刻", CMP["seat"], "#B4620A", bold=True) +
+  f'\n</div>\n<p style="font-size:24px;line-height:1.5;color:{BODY}">另有 {NOFF} 位用户（1.50 m、臀部厚）坐在 0.58 m 的床上脚踩不实，没法比；起身台平时 0.42 m，81 人都踩得实</p>\n</div>\n'
+  f'<div style="display:flex;flex-direction:column;gap:26px">\n'
+  f'<p style="font-size:30px;line-height:1.45"><b>比低床：</b>每个人都省，中位数省 {pct(SAVE_LOW)}</p>\n'
+  f'<p style="font-size:30px;line-height:1.45"><b>比抬高床：</b>只省 {pc(SAVE_HB)}–{pct(SAVE_HL)}；{N72} 人里 {NWORSE} 人反而略费力</p>\n'
+  f'<p style="font-size:28px;line-height:1.5;color:{BODY}"><b>原因：</b>多数人在座板前倾最大（约 {PHIREL:.0f}°）时就离开坐垫，那时髋只比坐在 0.58 m 床上高约 4 cm；导轨上段没用来托人</p>\n'
+  f'<p style="font-size:28px;line-height:1.5;color:{ACC}"><b>所以它的价值是：</b>平时坐得低、脚踩得实；起身全程有托、不往前滑、坐回接得住（第 8 页）</p>\n</div>\n</div>\n'
+  + foot("effort = 最吃力的关节用掉自身最大力量的比例（2D 准静态模型，手上最多出半个体重）。抬高床按最有利的坐姿（臀部离床沿 0–10 cm）和 35 个扶手位置里最好的算。旧版此页的 13–20% 来自竖直升到 0.66 m 的旧模型，已作废"),
+  f"接下来比较几种起身方式。我们用同一个二维、准静态的起身模型、同一副 L 形扶手和同一批用户，算最吃力那一刻最吃力的关节用掉了自身最大力量的几成，叫 effort，越低越轻松。从 0.42 米的低床起身，中位数是 {CMP['low']:.2f}；把床垫高到 0.58 米，降到 {CMP['high_L']:.2f}，扶手放到最有利的位置是 {CMP['high_best']:.2f}；起身台在座板放手那一刻是 {CMP['seat']:.2f}。所以和低床比，起身台每个人都省，中位数省 {pct(SAVE_LOW)}；但和抬高床比只多省 {pct(SAVE_HB)} 到 {pct(SAVE_HL)}，有 {NWORSE} 个人反而略费力。原因是多数人在座板前倾最大、大约 {PHIREL:.0f} 度时就离开了坐垫，那时髋部只比坐在 0.58 米的床上高约 4 厘米。我们之前的版本写比抬高床省 13 到 20%，那是竖直升降旧模型的数字，这次按同一口径重算后不成立，我们改掉了。起身台相对抬高床的好处主要在别处：平时和床一样低，脚踩得实，0.58 米的床有 {NOFF} 位个子矮的用户脚踩不实；起身全程有托，不往前滑，坐回去也接得住。",
+  pad="128px 128px 160px", layout="display:flex;flex-direction:column;gap:40px")
 
 S["sensing"] = sec("sensing", LIGHT,
   head("4 · 传感与交互", "手握发指令，力分布确认人准备好了") +
@@ -162,9 +197,10 @@ REPL = {   # small edits on slides kept as they are
                "<tr><td>现有技术和专利表</td><td>角色 1</td><td><b style=\"color:#2F7A55\">有材料</b></td></tr>\n<tr><td>单自由度坐板设计（81 人、机构、坐垫、干涉、两轮审计）</td><td>角色 2、3</td><td><b style=\"color:#2F7A55\">有材料</b></td></tr>")],
  "questions": [("机构做到“选型 + 尺寸估算 + CAD 运动动画”够不够？双升降柱为主、剪叉作对比可以吗？", "座板改成跟着大腿走的单自由度曲线（斜导轨 + 倾角连杆），竖直升降作对比，这个方向可以吗？做到选型 + 尺寸估算 + CAD 运动动画够不够？"),
                ("第二，机构做到选型、尺寸估算和 CAD 运动动画够不够；", "第二，座板改成跟着大腿走的曲线、竖直升降作对比，这个方向行不行，机构做到选型、尺寸估算和 CAD 运动动画够不够；")],
- "whynot": [('<p style="font-size:28px;line-height:1.5;color:#3F4A57">只升到 0.60 m 就和抬高床差不多：省力来自固定床达不到的那段高度</p>',
-             f'<p style="font-size:28px;line-height:1.5;color:#3F4A57">只升到 0.60 m 就和抬高床差不多。座板还要跟着大腿走，否则人会往前滑（第 8 页）</p>')],
 }
+
+REPL["statemachine"] += [("才带人慢慢降；座板上没人时不动</p>", "才带人慢慢降；空座板只在“空载复位”时自己降回齐平</p>"),
+                         ("第二，只有确认有人坐着才下降，座板上没人时不动；", "第二，带人下降必须确认有人坐着，并且按住“降”或坐着很久没有操作；空座板只在人走开以后自己降回齐平；")]
 
 if __name__ == "__main__":
     for sid, html in S.items():
@@ -172,6 +208,7 @@ if __name__ == "__main__":
     for sid, pairs in REPL.items():
         p = os.path.join(OUT, f"{sid}.html"); h = open(p).read()
         for a, b in pairs:
+            if h.count(a) == 0 and b in h: continue   # already applied (deck root is edited in place)
             assert h.count(a) == 1, (sid, a[:40]); h = h.replace(a, b)
         open(p, "w").write(h)
     print("written", [k for k, v in S.items() if v] + list(REPL))

diff --git a/model/calc_v13/seat_1dof_bed_baseline.py b/model/calc_v13/seat_1dof_bed_baseline.py
@@ -1,0 +1,52 @@
+"""v5.2 baseline on the same footing as the seat: rising from a bed (low 0.42 m / raised 0.58 m) for the 81 users.
+
+Why: the deck's "13-20 % less effort than a raised bed" came from the older vertical-lift model (seat 0.66 m, hand load
+capped at 25 % BW, a bar that rose with the seat). The v5.2 seat uses another effort set-up (hand cap 0.5, the fixed L bar,
+contact LP), so the comparison is redone here with the same effort function and the same users.
+Seat-off on a bed: hip height = bed + r_b, hip x in {0.00, 0.05, 0.10} m past the bed edge (best of three: perching on the
+edge is allowed), the user's own ankle x. Hands: (a) the same L bar at its fixed place, (b) the best bed handle on a grid
+x 0.40-0.70, z bed+0.25..bed+0.45 (generous: no reach or install limits). Effort = HR.bar_effort, no seat contact.
+The seat's number is its release effort (slider.json, same function, same bar): the moment the seat stops carrying the user.
+Output: seat_1dof/bed_baseline.json."""
+import json, os, sys
+import numpy as np
+from multiprocessing import Pool
+HERE = os.path.dirname(os.path.abspath(__file__)); sys.path.insert(0, HERE); sys.path.insert(0, os.path.join(HERE, '..'))
+from model import Subject
+from seat_trajectory import pose
+from seat_relative_motion import solve_s
+from seat_1dof_design import USERS, ukey
+import seat_1dof_handrail as HR
+
+OUT = os.path.join(HERE, "seat_1dof", "bed_baseline.json")
+BEDS = [0.42, 0.58]; HIPX = [0.00, 0.05, 0.10]
+HANDLES = [(round(x, 2), round(dz, 2)) for x in np.arange(0.40, 0.701, 0.05) for dz in np.arange(0.25, 0.451, 0.05)]
+
+def job(u):
+    H, rb, p, xa = u; sub = Subject(H=H); L = HR.bar_now(); out = {}
+    for h in BEDS:
+        hz = h + rb; poses = []
+        for hx in HIPX:
+            s = solve_s(sub, xa, hz, hx)
+            if s is not None: poses.append(pose(sub, xa, hz, s))
+        def best(bars):
+            E = [HR.bar_effort(sub, pz, bar=b) for pz in poses for b in bars]; E = [e for e in E if e is not None]
+            return round(min(E), 3) if E else None
+        out[f"{h:.2f}"] = dict(L_bar=best([L]), handle=best([dict(x=x, z=h + dz) for x, dz in HANDLES]))
+    return ukey(u), out
+
+if __name__ == "__main__":
+    S = json.load(open(os.path.join(HERE, "seat_1dof", "slider.json")))["users"]
+    with Pool() as pool: R = dict(pool.map(job, USERS))
+    summ = {}
+    for h in BEDS:
+        for k in ("L_bar", "handle"):
+            pairs = [(S[u]["E_release"], R[u][f"{h:.2f}"][k]) for u in R if S[u].get("E_release") and R[u][f"{h:.2f}"][k]]
+            b = np.array([q[1] for q in pairs]); s = np.array([q[0] for q in pairs]); red = 1 - s / b
+            summ[f"bed{h:.2f}_{k}"] = dict(n=len(pairs), E_bed_med=round(float(np.median(b)), 3), E_bed_max=round(float(b.max()), 3),
+                                           E_seat_med=round(float(np.median(s)), 3),
+                                           saving_med=round(float(np.median(red)), 3), saving_p10=round(float(np.percentile(red, 10)), 3),
+                                           saving_p90=round(float(np.percentile(red, 90)), 3), n_worse=int((red < 0).sum()))
+            print(h, k, summ[f"bed{h:.2f}_{k}"], flush=True)
+    json.dump(dict(note=__doc__, summary=summ, users=R), open(OUT, "w"), ensure_ascii=False, separators=(",", ":"))
+    print("done")
